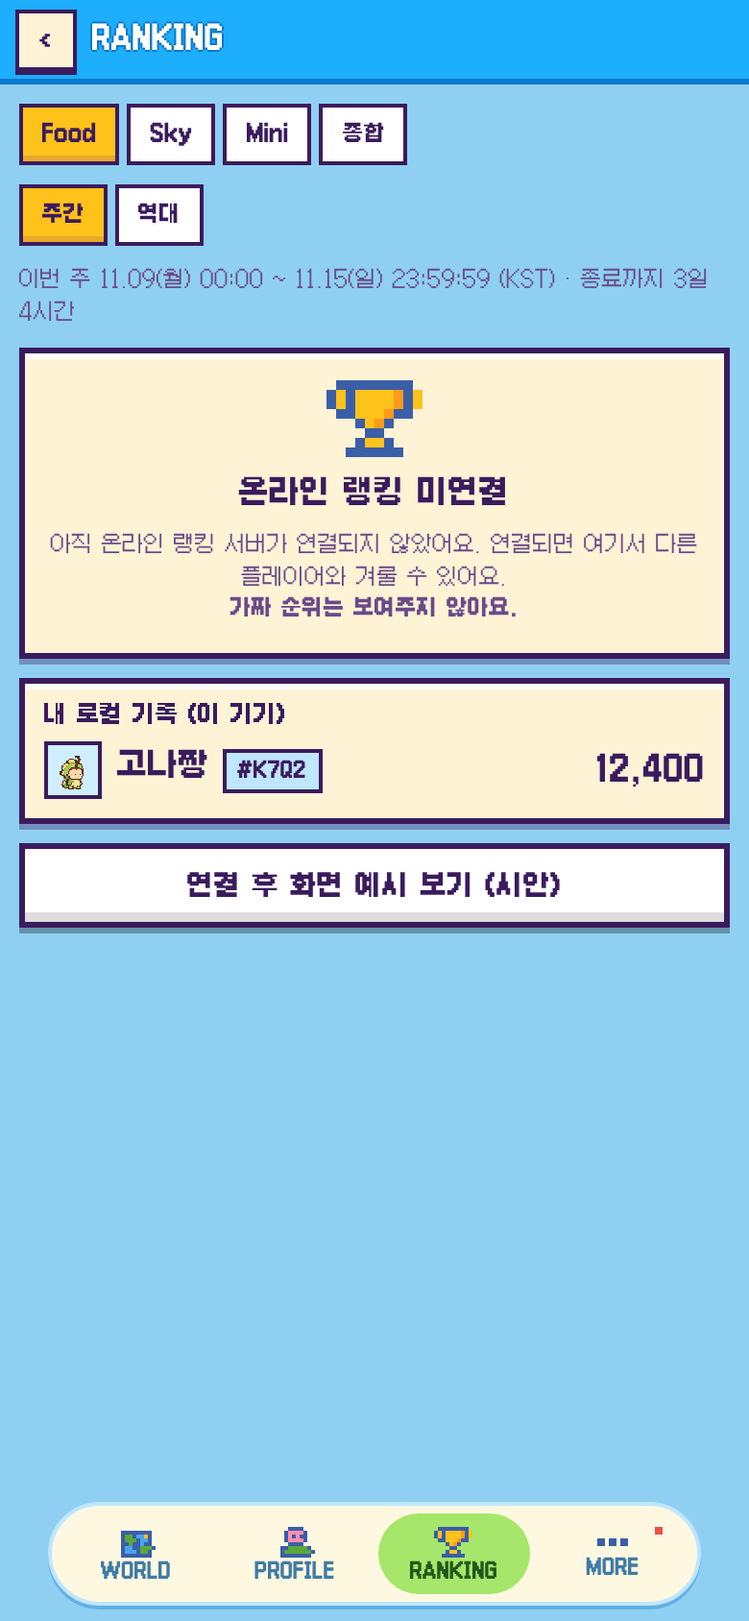
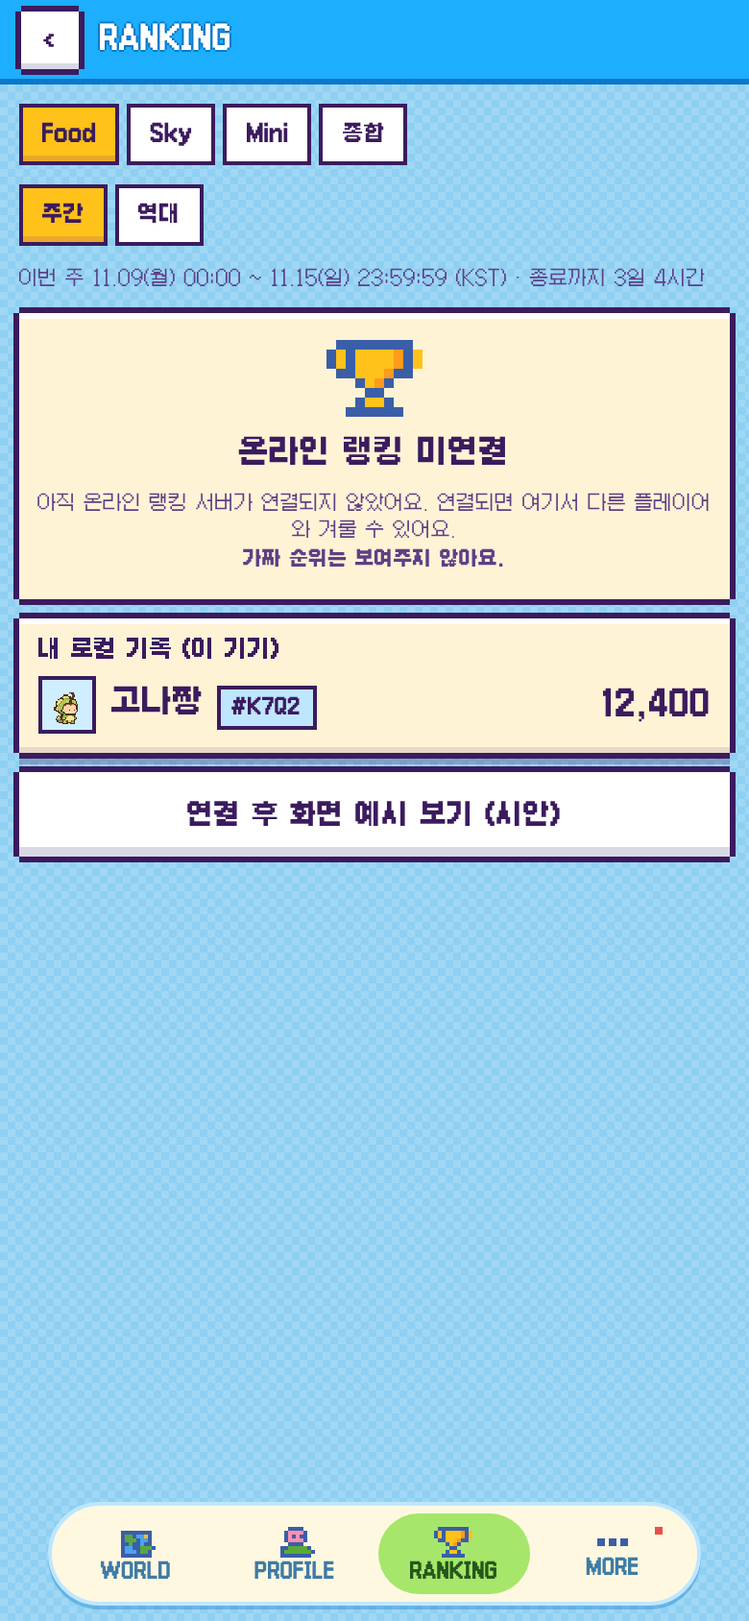
docs: HUD 배치안 비교, 에셋 구분표, Phase 1 명세, 시안 리파인(v1)
Claude-Session: https://claude.ai/code/session_011LWBdZ2XMame63jCRHDxCu

Changed region(s): [[0.0, 0.154, 0.9846, 0.5853], [0.0, 0.0, 0.3077, 0.0616]]

diff --git a/docs/platform/prototype/app.js b/docs/platform/prototype/app.js
@@ -37,7 +37,7 @@ const AV = {
 };
 const S = {
   p: { nick: '고나짱', code: 'K7Q2', av: 'gona', lv: 7, xp: 340, next: 500, coins: 1280, title: '고나의 첫걸음', joined: '2026.11.13', frame: 'basic' },
-  net: false, demo: false, toast: '', modal: null, rankGame: 'food', rankPeriod: 'weekly', achTab: 'common', cxTab: '캐릭터', cxSel: null, shopTab: '아바타',
+  hud: 'B', net: false, demo: false, toast: '', modal: null, rankGame: 'food', rankPeriod: 'weekly', achTab: 'common', cxTab: '캐릭터', cxSel: null, shopTab: '아바타',
   set: { bgm: true, sfx: true, vib: true, reduce: false, vol: 70 },
   reg: { step: 1, nick: '', av: 'gona' },
   owned: { cookie: true, f_basic: true, f_leaf: false },
@@ -58,9 +58,13 @@ function av(id, px = 32, extra = '') {
 const xpPct = () => Math.round((S.p.xp / S.p.next) * 100);
 const tab = (id, label, ic, on, pip) => `<button data-nav="${id}" class="${on ? 'on' : ''}">${icon(ic, 2)}<span>${label}</span>${pip ? '<i class="pip"></i>' : ''}</button>`;
 function nav(cur) {
-  return `<nav class="nav" aria-label="메뉴">${tab('world', 'WORLD', 'map', cur === 'world')}${tab('profile', 'PROFILE', 'user', cur === 'profile')}${tab('ranking', 'RANKING', 'trophy', cur === 'ranking')}${tab('more', 'MORE', 'more', ['achievements', 'codex', 'missions', 'shop', 'settings'].includes(cur), true)}</nav>`;
+  return `<nav class="nav" aria-label="메뉴">${tab('world', 'WORLD', 'map', cur === 'world')}${S.hud === 'C' ? `<button data-nav="profile" class="${cur === 'profile' ? 'on' : ''}"><span class="navav">${av(S.p.av, 22)}<b>${S.p.lv}</b></span><span>PROFILE</span></button>` : tab('profile', 'PROFILE', 'user', cur === 'profile')}${tab('ranking', 'RANKING', 'trophy', cur === 'ranking')}${tab('more', 'MORE', 'more', ['achievements', 'codex', 'missions', 'shop', 'settings'].includes(cur), true)}</nav>`;
 }
-const header = () => `<header class="top"><svg class="star" viewBox="0 0 7 7" shape-rendering="crispEdges"><g fill="#ffd84a"><rect x="3" y="0" width="1" height="3"/><rect x="0" y="3" width="7" height="1"/><rect x="2" y="2" width="3" height="3"/></g></svg><div class="logo"><h1>GONA GONE WILD!</h1><span class="ko">고나가 떴고나!</span></div><svg class="star" viewBox="0 0 7 7" shape-rendering="crispEdges"><g fill="#ffd84a"><rect x="3" y="0" width="1" height="3"/><rect x="0" y="3" width="7" height="1"/><rect x="2" y="2" width="3" height="3"/></g></svg></header>`;
+const STAR = `<svg class="star" viewBox="0 0 7 7" shape-rendering="crispEdges"><g fill="#ffd84a"><rect x="3" y="0" width="1" height="3"/><rect x="0" y="3" width="7" height="1"/><rect x="2" y="2" width="3" height="3"/></g></svg>`;
+const pbtn = (full) => `<button class="pbtn" data-nav="profile" aria-label="프로필 열기">${av(S.p.av, 28)}<span class="meta"><span class="nm">${S.p.nick}</span><span class="lv">LV${S.p.lv}<span class="bar"><i style="width:${xpPct()}%"></i></span></span></span></button>`;
+const pmini = () => `<button class="pbtn mini" data-nav="profile" aria-label="프로필 열기">${av(S.p.av, 28)}<span class="lvtag">LV${S.p.lv}</span></button>`;
+const coinchip = () => `<div class="coinchip"><i class="c"></i>${S.p.coins.toLocaleString()}</div>`;
+const header = () => S.hud === 'B' ? `<header class="top hudb">${pbtn()}<div class="logo"><h1>GONA GONE WILD!</h1><span class="ko">고나가 떴고나!</span></div>${coinchip()}</header>` : `<header class="top"><svg class="star" viewBox="0 0 7 7" shape-rendering="crispEdges"><g fill="#ffd84a"><rect x="3" y="0" width="1" height="3"/><rect x="0" y="3" width="7" height="1"/><rect x="2" y="2" width="3" height="3"/></g></svg><div class="logo"><h1>GONA GONE WILD!</h1><span class="ko">고나가 떴고나!</span></div><svg class="star" viewBox="0 0 7 7" shape-rendering="crispEdges"><g fill="#ffd84a"><rect x="3" y="0" width="1" height="3"/><rect x="0" y="3" width="7" height="1"/><rect x="2" y="2" width="3" height="3"/></g></svg></header>`;
 const titlebar = (t, back = 'world') => `<div class="bar-title"><button class="back" data-nav="${back}" aria-label="뒤로">‹</button><h2>${t}</h2></div>`;
 const wrapScreen = (cur, t, body, back) => `${titlebar(t, back)}<div class="screen"><div class="scroll">${body}</div></div>${nav(cur)}`;
 
@@ -74,21 +78,27 @@ function validNick(n) {
 }
 function screenRegister() {
   const r = S.reg; const v = validNick(r.nick);
+  const slots = (n) => { const ch = [...n]; return `<div class="slots" aria-hidden="true">${Array.from({ length: 10 }, (_, i) => `<i class="${i === ch.length ? 'cur' : ''}">${ch[i] || ''}</i>`).join('')}</div>`; };
+  const steps = (k) => `<div class="steps"><i class="${k >= 1 ? 'on' : ''}">1</i><i class="${k >= 2 ? 'on' : ''}">2</i><i class="${k >= 3 ? 'on' : ''}">3</i></div>`;
   if (r.step === 3) {
-    return `<div class="reg" style="justify-content:center;align-items:center;text-align:center;gap:14px"><div class="steps"><i></i><i></i><i class="on"></i></div>
-      <img src="assets/gona.png" style="width:135px;height:170px;animation:hop .7s steps(6) infinite alternate" alt=""><div class="bubble">어서 와, <b>${r.nick || '고나짱'}</b>!<br>고나 게임천국에 오신 걸 환영해요 🎉</div>
-      <div class="panel" style="width:100%"><div class="row" style="justify-content:center">${av(r.av, 40)}<div style="text-align:left"><b style="font-size:14px">${r.nick || '고나짱'}</b> <span class="chip blue">#K7Q2</span><div class="muted">LV 1 · 고나 코인 0</div></div></div></div>
-      <button class="btn block" data-nav="world">월드맵으로 출발!</button><p class="muted">이 기기에 저장돼요. 기기 변경·Safari 데이터 삭제 시 기록이 사라질 수 있어요 — 설정 &gt; 백업에서 보관하세요.</p></div><style>@keyframes hop{from{transform:translateY(0)}to{transform:translateY(-14px)}}</style>`;
+    return `<div class="reg center">${steps(3)}<div class="ribbon2">WELCOME!</div>
+      <div class="stagebox"><img class="hero-s hop" src="assets/gona.png" alt=""><i class="plat"></i></div>
+      <div class="bubble">어서 와, <b>${r.nick || '고나짱'}</b>!<br>고나 게임천국에 온 걸 환영해!</div>
+      <div class="idcard">${av(r.av, 44)}<div><b>${r.nick || '고나짱'}</b> <span class="chip blue">#K7Q2</span><div class="muted">LV 1 · 코인 0 · 기록 0</div></div></div>
+      <button class="btn block big" data-nav="world">▶ START!</button><p class="muted">이 기기에 저장돼요. 기기를 바꾸거나 Safari 데이터를 지우면 기록이 사라질 수 있어요. 설정 &gt; 백업에서 보관하세요.</p></div>`;
   }
   const body = r.step === 1
-    ? `<div class="field"><label class="muted" for="nick">닉네임 (한글·영문·숫자 2~10자)</label><input id="nick" value="${r.nick}" maxlength="12" autocomplete="off" placeholder="예: 고나짱"><div class="hint"><i class="${v.okLen ? 'ok' : r.nick ? 'bad' : ''}">${v.len}/10자 · 2자 이상</i><i class="${v.okChars ? 'ok' : 'bad'}">공백·특수문자 없음</i><i class="${v.okBad ? 'ok' : 'bad'}">부적절한 표현 없음</i></div></div>
-       <div class="panel"><div class="muted">닉네임은 같아도 괜찮아요. 내 기록은 <b>고유 ID</b>로 구분되고, 랭킹에는 <b>#식별코드</b>가 함께 표시돼요. 이메일·비밀번호는 필요 없어요.</div></div>
-       <button class="btn block ${v.ok ? '' : 'off'}" data-act="regnext" ${v.ok ? '' : 'disabled'}>다음 ›</button>`
-    : `<div class="avs">${Object.keys(AV).map((k) => `<button data-act="regav" data-id="${k}" class="${r.av === k ? 'on' : ''}">${av(k, 40)}<span>${AV[k].n}</span></button>`).join('')}</div>
-       <div class="panel row" style="justify-content:center">${av(r.av, 48)}<div><b style="font-size:14px">${r.nick}</b> <span class="chip blue">#K7Q2</span><div class="muted">선택한 아바타: ${AV[r.av].n}</div></div></div>
-       <p class="muted">알·별 아바타는 <b>임시 도트</b>(빨간 점선)입니다 — 신규 에셋 승인 후 제작합니다. 아바타·닉네임은 나중에 프로필에서 바꿀 수 있어요.</p>
-       <div class="row"><button class="btn sub" data-act="regback">‹ 이전</button><button class="btn" style="flex:1" data-act="regdone">시작하기!</button></div>`;
-  return `<div class="reg"><div class="steps"><i class="on"></i><i class="${r.step >= 2 ? 'on' : ''}"></i><i></i></div><div class="hero"><img src="assets/gona.png" alt=""><div class="bubble">${r.step === 1 ? '처음 왔구나! 이름을 알려줄래?' : '함께할 아바타를 골라줘!'}</div></div>${body}</div>`;
+    ? `<div class="ribbon2">NEW PLAYER</div><div class="hero2"><div class="stagebox sm"><img class="hero-s" src="assets/gona.png" alt=""><i class="plat"></i></div><div class="bubble">처음 왔구나!<br>이름을 알려줄래?</div></div>
+       <div class="field"><label class="muted" for="nick">닉네임 · 한글·영문·숫자 2~10자</label><input id="nick" class="plate" value="${r.nick}" maxlength="12" autocomplete="off" placeholder="이름 입력">${slots(r.nick)}
+       <div class="hint"><i class="${v.okLen ? 'ok' : r.nick ? 'bad' : ''}">${v.len}/10 · 2자 이상</i><i class="${v.okChars ? 'ok' : 'bad'}">공백·특수문자 없음</i><i class="${v.okBad ? 'ok' : 'bad'}">부적절한 표현 없음</i></div></div>
+       <div class="panel"><div class="muted">같은 닉네임도 괜찮아요. 내 기록은 <b>내부 ID</b>로 구분하고, 랭킹엔 <b>#식별코드</b>가 함께 보여요. 이메일·비밀번호는 필요 없어요.</div></div>
+       <button class="btn block big ${v.ok ? '' : 'off'}" data-act="regnext" ${v.ok ? '' : 'disabled'}>다음 ▶</button>`
+    : `<div class="ribbon2">CHARACTER SELECT</div>
+       <div class="pick"><div class="big-av">${av(r.av, 84)}<b>${r.nick}</b><span class="chip blue">#K7Q2</span></div>
+       <div class="avs">${Object.keys(AV).map((k) => `<button data-act="regav" data-id="${k}" class="${r.av === k ? 'on' : ''}">${r.av === k ? '<em>▶</em>' : ''}${av(k, 40)}<span>${AV[k].n}</span>${AV[k].ph ? '<u>임시</u>' : ''}</button>`).join('')}</div></div>
+       <p class="muted">알·별은 <b>임시 도트</b>(점선 표시)이며 정식 픽셀 에셋으로 교체 예정이에요. 아바타·닉네임은 나중에 바꿀 수 있어요.</p>
+       <div class="row"><button class="btn sub" data-act="regback">◀ 이전</button><button class="btn big" style="flex:1" data-act="regdone">이걸로 결정!</button></div>`;
+  return `<div class="reg">${steps(r.step)}${body}</div>`;
 }
 
 const hudHtml = () => `<div class="hud"><button class="badge" data-nav="profile" aria-label="프로필 열기">${av(S.p.av, 30)}<span class="meta"><span class="nm">${S.p.nick}</span><span class="lv">LV ${S.p.lv}<span class="bar"><i style="width:${xpPct()}%"></i></span></span></span></button>
@@ -110,7 +120,9 @@ function moreHtml() {
 }
 function screenWorld(q) {
   const isl = q.get('island');
-  return `${header()}${hudHtml()}<div class="stage"><div class="mapbox" id="mapbox"><div class="fit" id="fit"><div class="world" id="world"><img class="bg" src="assets/gona-world-map.png" alt="월드맵"><img class="gona" id="gona" src="assets/gona.png" alt="고나">
+  if (q.get('hud')) S.hud = q.get('hud');
+  const ov = S.hud === 'A' ? `<div class="ovl l">${pmini()}</div><div class="ovl r">${coinchip()}</div>` : S.hud === 'C' ? `<div class="ovl r">${coinchip()}</div>` : '';
+  return `${header()}<div class="stage">${ov}<div class="mapbox" id="mapbox"><div class="fit" id="fit"><div class="world" id="world"><img class="bg" src="assets/gona-world-map.png" alt="월드맵"><img class="gona" id="gona" src="assets/gona.png" alt="고나">
     ${Object.values(GAMES).map((g) => `<button class="hit ${isl === g.id ? 'sel' : ''}" data-act="island" data-id="${g.id}" aria-label="${g.island}" style="left:${g.hit.x}px;top:${g.hit.y}px;width:${g.hit.w}px;height:${g.hit.h}px;${g.hit.clip ? 'clip-path:' + g.hit.clip : ''}"></button>`).join('')}</div></div></div>
     ${isl ? popupHtml(GAMES[isl]) : ''}${q.get('more') ? moreHtml() : ''}</div>${nav(q.get('more') ? 'more' : 'world')}`;
 }
@@ -132,12 +144,14 @@ function layoutWorld(q) {
 
 function screenProfile() {
   const p = S.p;
-  return wrapScreen('profile', 'PROFILE', `<div class="panel"><div class="row" style="gap:10px">${av(p.av, 64)}<div style="flex:1;min-width:0"><div class="row"><b style="font-size:16px">${p.nick}</b><span class="chip blue">#${p.code}</span></div>
-    <div class="row" style="margin:5px 0 3px"><span class="chip gold">LV ${p.lv}</span><span class="chip ok">${p.title}</span></div><div class="row"><span class="bar"><i style="width:${xpPct()}%"></i></span><span style="font-size:9px;white-space:nowrap">${p.xp}/${p.next} XP</span></div></div></div>
-    <div class="muted" style="margin-top:6px">가입일 ${p.joined} · 이 기기에 저장됨(온라인 미연결)</div><div class="row" style="margin-top:8px"><button class="btn sm sub" data-act="edit" data-what="avatar">아바타</button><button class="btn sm sub" data-act="edit" data-what="nick">닉네임</button><button class="btn sm sub" data-act="edit" data-what="title">칭호</button><button class="btn sm sub" data-act="edit" data-what="frame">테두리</button></div></div>
-    <div class="panel"><h3>플레이 통계 <span class="sp"></span><span class="chip">샘플</span></h3><div class="grid" style="grid-template-columns:repeat(3,1fr)"><div class="stat"><b>12</b><span>총 플레이</span></div><div class="stat"><b>1시간 8분</b><span>총 플레이 시간</span></div><div class="stat"><b>1 / 3</b><span>플레이한 게임</span></div><div class="stat"><b>4 / 30</b><span>업적</span></div><div class="stat"><b>2,150</b><span>누적 코인</span></div><div class="stat"><b>3 / 4</b><span>최고 단계</span></div></div></div>
-    <div class="panel"><h3>게임별 기록</h3><div class="grid">${Object.values(GAMES).map((g) => `<div class="row" style="background:#fff;border:2px solid var(--ink);padding:6px 8px"><b style="font-size:11px;flex:1">${g.island}</b>${g.open ? `<span class="chip gold">최고 ${g.best}</span><span class="chip">${g.stage}</span>` : '<span class="chip soon">COMING SOON</span>'}</div>`).join('')}</div></div>
-    <div class="panel"><h3>기록 공유 · 백업</h3><div class="row"><button class="btn sm off" disabled>이미지로 공유 (예정)</button><button class="btn sm sub" data-nav="settings">백업·복구</button></div></div>`);
+  return wrapScreen('profile', 'PROFILE', `<div class="pcard"><div class="portrait">${av(p.av, 76)}<span class="lvbadge">LV<b>${p.lv}</b></span></div>
+    <div class="info"><div class="nameplate"><b>${p.nick}</b><span class="chip blue">#${p.code}</span></div><div class="titleplate">${p.title}</div>
+    <div class="xp"><span class="bar"><i style="width:${xpPct()}%"></i></span><small>${p.xp} / ${p.next} XP</small></div><div class="coinline"><i class="c"></i>${p.coins.toLocaleString()} <small>· ${p.joined} 시작</small></div></div></div>
+    <div class="row cust"><button class="btn sm sub" data-act="edit" data-what="avatar">아바타</button><button class="btn sm sub" data-act="edit" data-what="nick">닉네임</button><button class="btn sm sub" data-act="edit" data-what="title">칭호</button><button class="btn sm sub" data-act="edit" data-what="frame">테두리</button></div>
+    <div class="panel"><h3>플레이 통계 <span class="sp"></span><span class="chip">샘플</span></h3><div class="grid" style="grid-template-columns:repeat(3,1fr)"><div class="stat"><b>12</b><span>총 플레이</span></div><div class="stat"><b>1시간 8분</b><span>플레이 시간</span></div><div class="stat"><b>1 / 3</b><span>플레이한 게임</span></div></div></div>
+    <div class="panel"><h3>게임별 기록</h3><div class="grid">${Object.values(GAMES).map((g) => `<div class="grow"><b>${g.island}</b>${g.open ? `<span class="chip gold">최고 ${g.best}</span><span class="chip">${g.stage}</span>` : '<span class="chip soon">COMING SOON</span>'}</div>`).join('')}</div></div>
+    <div class="panel"><h3>업적 4 / 30 <span class="sp"></span><button class="btn sm sub" data-nav="achievements">보기</button></h3><div class="row">${icon('star', 3)}${icon('star', 3)}${icon('star', 3)}${icon('star', 3)}<span class="muted">· 이 기기에 저장됨 (온라인 미연결)</span></div></div>
+    <div class="panel"><div class="row"><button class="btn sm off" disabled>이미지로 공유 (예정)</button><button class="btn sm sub" data-nav="settings">백업·복구</button></div></div>`);
 }
 
 const SAMPLE = [['예시닉 A', 'A1B2', 12400], ['예시닉 B', 'C3D4', 11800], ['예시닉 C', 'E5F6', 10950], ['예시닉 D', 'G7H8', 9300], ['예시닉 E', 'J9K1', 8800], ['예시닉 F', 'L2M3', 7100], ['예시닉 G', 'N4P5', 6600]];
@@ -212,7 +226,7 @@ function modalHtml() {
   return `<div class="scrim" data-act="mclose"><div class="panel modal" onclick="event.stopPropagation()">${body}</div></div>`;
 }
 function render() {
-  const { name, q } = parse(); const fn = SCREENS[name] || screenWorld;
+  const { name, q } = parse(); if (q.get('hud')) S.hud = q.get('hud'); const fn = SCREENS[name] || screenWorld;
   $('#app').innerHTML = `${CLEAN ? '' : '<span class="sample">시안 · 샘플 데이터</span>'}${fn(q)}${S.toast ? `<div class="toast">${S.toast}</div>` : ''}${modalHtml()}`;
   if (name === 'world') requestAnimationFrame(() => layoutWorld(q));
   const ni = $('#nick'); if (ni) ni.addEventListener('input', () => { S.reg.nick = ni.value; const pos = ni.selectionStart; render(); const n2 = $('#nick'); n2.focus(); n2.setSelectionRange(pos, pos); });

diff --git a/docs/platform/prototype/style.css b/docs/platform/prototype/style.css
@@ -173,3 +173,85 @@ input[type=range] { width: 110px; accent-color: var(--orange); }
 .proto.open nav { display: grid; gap: 4px; }
 .proto nav a { color: var(--ink); text-decoration: none; font-size: 12px; padding: 7px 6px; background: #fff; border: 2px solid var(--ink); }
 @media (prefers-reduced-motion: reduce) { .popup, .more, .toast, .fit { animation: none; transition: none; } }
+
+/* ══ v1 리파인: 노치(계단) 모서리 · 도트 배경 · 플레이어 버튼 HUD ══ */
+:root { --notch: 0 -3px 0 0 var(--ink), 0 3px 0 0 var(--ink), -3px 0 0 0 var(--ink), 3px 0 0 0 var(--ink); }
+.screen { background: #8fd0f2 conic-gradient(rgba(255,255,255,.14) 25%, transparent 0 50%, rgba(255,255,255,.14) 0 75%, transparent 0) 0 0 / 8px 8px; }
+.panel, .popup, .modal, .bubble, .btn, .pbtn, .coinchip, .back { border: 0; }
+.panel, .popup { box-shadow: var(--notch), inset 0 3px 0 #fff, inset 0 -3px 0 rgba(59,27,94,.12), 0 6px 0 0 rgba(59,27,94,.28); }
+.bubble { box-shadow: var(--notch); background: #fff; }
+.btn { box-shadow: var(--notch), inset 0 -5px 0 #e8a92c, inset 0 3px 0 rgba(255,255,255,.55); }
+.btn:active { transform: translateY(2px); box-shadow: var(--notch), inset 0 3px 0 #e8a92c; }
+.btn.sub { box-shadow: var(--notch), inset 0 -5px 0 #d9d9e6, inset 0 3px 0 #fff; }
+.btn.off { box-shadow: var(--notch), inset 0 -5px 0 #b9b2a2; }
+.btn.danger { box-shadow: var(--notch), inset 0 -5px 0 #d85c58, inset 0 3px 0 rgba(255,255,255,.5); }
+.btn.big { min-height: 52px; font-size: 16px; letter-spacing: 1px; }
+.btn.block { width: 100%; }
+.back { box-shadow: var(--notch), inset 0 -3px 0 #d9d9e6; background: #fff; width: 30px; height: 30px; margin: 3px; }
+.tabs button, .stat, .lbrow, .chip { border-width: 2px; }
+.muted { font-size: 10px; line-height: 1.45; color: #5d3f86; }
+
+/* HUD 옵션 B: 로고 헤더 안에 작은 플레이어 버튼 + 코인 (지도 크기 손실 0) */
+.top.hudb { display: grid; grid-template-columns: 1fr auto 1fr; gap: 6px; padding: 0 8px; align-items: center; }
+.top.hudb .logo { justify-self: center; }
+.pbtn { display: inline-flex; align-items: center; gap: 5px; padding: 3px 7px 3px 3px; background: var(--cream); box-shadow: var(--notch), inset 0 -3px 0 #e8d5a0; text-align: left; justify-self: start; min-width: 0; margin: 3px; }
+.pbtn:active { transform: translateY(2px); }
+.pbtn .meta { display: flex; flex-direction: column; gap: 3px; min-width: 0; }
+.pbtn .nm { font-size: 10px; line-height: 1; font-weight: 700; max-width: 54px; overflow: hidden; text-overflow: ellipsis; white-space: nowrap; }
+.pbtn .lv { display: flex; align-items: center; gap: 3px; font-size: 8px; line-height: 1; font-weight: 700; }
+.pbtn .lv .bar { width: 26px; min-width: 26px; flex: none; height: 5px; }
+.pbtn.mini { padding: 3px; flex-direction: column; gap: 1px; }
+.lvtag { font-size: 8px; font-weight: 700; line-height: 1; padding: 1px 0 0; }
+.coinchip { display: inline-flex; align-items: center; gap: 4px; padding: 6px 7px 6px 6px; background: var(--cream); box-shadow: var(--notch), inset 0 -3px 0 #e8d5a0; font-size: 11px; font-weight: 700; line-height: 1; justify-self: end; margin: 3px; }
+.coinchip .c { width: 11px; height: 11px; background: var(--gold); border: 2px solid var(--ink); box-shadow: inset -2px -2px 0 var(--orange); }
+/* 옵션 A/C: 지도 위 오버레이 */
+.ovl { position: absolute; top: 4px; z-index: 6; } .ovl.l { left: 6px; } .ovl.r { right: 6px; }
+.navav { position: relative; display: inline-grid; } .navav b { position: absolute; right: -7px; bottom: -5px; font-size: 8px; background: var(--ink); color: #fff; padding: 1px 2px; line-height: 1; }
+
+/* 등록 */
+.reg { gap: 8px; padding: 8px 10px 10px; }
+.reg.center { align-items: center; text-align: center; justify-content: center; }
+.steps i { display: grid; place-items: center; width: 22px; height: 18px; font-style: normal; font-size: 10px; font-weight: 700; background: #fff; border: 2px solid var(--ink); }
+.steps i.on { background: var(--gold); }
+.ribbon2 { align-self: center; background: var(--ink); color: var(--cream); font-size: 12px; font-weight: 700; padding: 5px 12px 6px; letter-spacing: 2px; box-shadow: 0 0 0 2px var(--cream), 0 0 0 4px var(--ink); margin: 4px 0; }
+.hero2 { display: flex; align-items: flex-end; gap: 8px; justify-content: center; }
+.stagebox { position: relative; display: grid; place-items: end center; width: 120px; height: 140px; }
+.stagebox.sm { width: 84px; height: 104px; }
+.hero-s { width: 100px; height: 126px; position: relative; z-index: 1; } .stagebox.sm .hero-s { width: 76px; height: 96px; }
+.plat { position: absolute; bottom: 0; left: 8%; right: 8%; height: 10px; background: var(--grass); box-shadow: 0 -3px 0 #a6e66a inset, var(--notch); }
+.hop { animation: hop2 .8s steps(4) infinite alternate; } @keyframes hop2 { to { transform: translateY(-10px); } }
+.field input.plate { text-align: center; font-size: 20px; letter-spacing: 2px; background: var(--cream); border: 0; box-shadow: var(--notch), inset 0 3px 0 rgba(0,0,0,.12); }
+.slots { display: grid; grid-template-columns: repeat(10, 1fr); gap: 3px; }
+.slots i { height: 26px; display: grid; place-items: center; font-style: normal; font-size: 13px; font-weight: 700; background: #fff; border: 2px solid var(--ink); }
+.slots i.cur { background: var(--gold); animation: blink .8s steps(2) infinite; } @keyframes blink { 50% { background: #fff; } }
+.pick { display: grid; grid-template-columns: 92px 1fr; gap: 10px; align-items: center; }
+.big-av { display: flex; flex-direction: column; align-items: center; gap: 4px; font-size: 12px; background: var(--cream); padding: 8px 4px; box-shadow: var(--notch), inset 0 3px 0 #fff; }
+.pick .avs { grid-template-columns: repeat(2, 1fr); }
+.avs button { position: relative; border: 0; box-shadow: var(--notch); }
+.avs button.on { box-shadow: var(--notch), inset 0 -4px 0 #e8a92c; }
+.avs button em { position: absolute; left: 1px; top: 2px; font-style: normal; font-size: 10px; color: var(--red); }
+.avs button u { position: absolute; right: 1px; top: 1px; font-size: 7px; text-decoration: none; background: var(--red); color: #fff; padding: 1px 2px; }
+.idcard { display: flex; gap: 8px; align-items: center; background: var(--cream); padding: 8px 12px; box-shadow: var(--notch), inset 0 3px 0 #fff; text-align: left; }
+
+/* 프로필 카드 */
+.pcard { display: grid; grid-template-columns: 96px 1fr; gap: 10px; background: linear-gradient(180deg, #fff3d6 0 62%, #ffe9b0 62%); padding: 10px; box-shadow: var(--notch), inset 0 3px 0 #fff, 0 6px 0 0 rgba(59,27,94,.28); }
+.portrait { position: relative; display: grid; place-items: center; background: repeating-conic-gradient(#cfeeff 0 25%, #b7e3fb 0 50%) 0 0/8px 8px; box-shadow: 0 0 0 3px var(--gold), 0 0 0 6px var(--ink); margin: 6px; height: 84px; }
+.lvbadge { position: absolute; left: -10px; bottom: -10px; background: var(--ink); color: var(--cream); font-size: 9px; padding: 3px 4px 3px; display: flex; gap: 2px; align-items: baseline; box-shadow: 0 0 0 2px var(--cream); } .lvbadge b { font-size: 14px; color: var(--gold); }
+.info { display: flex; flex-direction: column; gap: 5px; min-width: 0; justify-content: center; }
+.nameplate { display: flex; align-items: center; gap: 5px; flex-wrap: wrap; } .nameplate b { font-size: 17px; line-height: 1.1; }
+.titleplate { align-self: flex-start; background: #8fe06a; border: 2px solid var(--ink); font-size: 10px; font-weight: 700; padding: 3px 6px; }
+.xp { display: flex; flex-direction: column; gap: 3px; } .xp .bar { height: 9px; } .xp small, .coinline small { font-size: 9px; color: #5d3f86; }
+.coinline { display: flex; align-items: center; gap: 5px; font-size: 13px; font-weight: 700; } .coinline .c { width: 12px; height: 12px; background: var(--gold); border: 2px solid var(--ink); box-shadow: inset -2px -2px 0 var(--orange); }
+.cust .btn { flex: 1; }
+.grow { display: flex; align-items: center; gap: 5px; background: #fff; border: 2px solid var(--ink); padding: 6px 8px; } .grow b { flex: 1; font-size: 11px; }
+
+/* 랭킹 */
+.lb-top3 .p { border: 0; box-shadow: var(--notch); justify-content: flex-start; }
+.lb-top3 .p.r1 { min-height: 126px; } .lb-top3 .p.r2 { min-height: 108px; } .lb-top3 .p.r3 { min-height: 98px; }
+.lb-top3 .medal { font-size: 13px; background: var(--ink); color: var(--cream); padding: 2px 5px; }
+.empty { box-shadow: var(--notch), inset 0 3px 0 #fff; }
+.lbrow { border: 0; box-shadow: var(--notch); margin: 3px 0; }
+.lbrow.me { box-shadow: 0 -3px 0 0 var(--ink), 0 3px 0 0 var(--ink), -3px 0 0 0 var(--ink), 3px 0 0 0 var(--ink), inset 0 0 0 2px var(--gold); }
+
+/* 시안 전용 HUD 비교 라벨 */
+.hudlabel { position: absolute; z-index: 45; left: 6px; bottom: 4px; font-size: 9px; background: var(--ink); color: #fff; padding: 2px 4px; }

diff --git a/docs/platform/prototype/index.html b/docs/platform/prototype/index.html
@@ -13,7 +13,9 @@
       <button id="protoBtn">☰ 시안 목록</button>
       <nav>
         <a href="#register">1 닉네임 등록</a>
-        <a href="#world">2 월드맵 + 플레이어 정보</a>
+        <a href="#world?hud=A">2-A HUD 안 A (지도 위 오버레이)</a>
+        <a href="#world?hud=B">2-B HUD 안 B (헤더 내장, 추천)</a>
+        <a href="#world?hud=C">2-C HUD 안 C (하단탭 아바타)</a>
         <a href="#world?island=food">3 섬 선택 팝업 (Food)</a>
         <a href="#world?island=sky">3b 섬 팝업 (COMING SOON)</a>
         <a href="#world?more=1">3c 더보기 메뉴</a>

diff --git a/docs/platform/PHASE1_SPEC.md b/docs/platform/PHASE1_SPEC.md
@@ -1,0 +1,36 @@
+# Phase 1 확정 명세 — 플레이어 기반 (구현 전 최종 확인용)
+
+> 상태: **명세만 확정, 구현 시작 전.** 승인 후 새 브랜치에서 개발. 이번 단계는 디자인 시안까지.
+
+## 목표
+닉네임으로 시작하는 로컬 플레이어를 만들고, 월드맵 HUD(안 B)와 프로필·설정(로컬 백업/복원)까지 연결한다. 서버·점수·XP·Food 연동은 **포함하지 않는다.**
+
+## 구현할 기능 (정확한 범위)
+1. **플레이어 생성**: 타이틀의 기존 "탭해서 시작" 이후, 저장된 플레이어가 없으면 등록 화면(3단계: 닉네임 → 아바타 → 환영)으로. 있으면 바로 월드맵. 타이틀 화면의 디자인·연출 변경 없음.
+2. **닉네임 규칙(D3)**: 한글·영문·숫자 2~10자, 공백·특수문자 불가, 부적절 표현 사전 검사(초기 목록은 설정 파일로 분리), **중복 허용**. 내부 `playerId`(UUID v4, `crypto.randomUUID` + 폴백)로 식별, 표시용 `shortCode` 4자(혼동 문자 0·O·1·I·L 제외) 로컬 생성. 닉네임 변경 시 playerId·기록 유지.
+3. **아바타**: 고나·딸기·쿠키 선택 가능, 알·별은 "준비 중" 잠금 슬롯(ASSETS.md). 나중에 프로필에서 변경.
+4. **로컬 저장**: 키 `gp.v1.player`(+ 직전 정상본 `gp.v1.player.bak`), `gp.v1.meta`(schemaVersion). 마이그레이션 함수 체인 틀. 파싱/검증 실패 시 `.bak` 복구 시도 → 실패하면 타이틀 이후 "저장 기록을 읽을 수 없어요" 안내(백업 복원 / 새로 시작). 기존 `gona.openingSeen`·`gona.mute` 키는 그대로.
+5. **월드맵 HUD(안 B)**: 로고 헤더 좌측 플레이어 버튼(아바타·닉·LV·XP), 우측 코인칩(Phase 1은 0 표시). 지도·고나·터치 좌표·이동 로직 변경 없음. 버튼 탭 → 프로필.
+6. **프로필(최소)**: 아바타·닉네임·#코드·가입일·LV1·칭호 없음 표시, 아바타/닉네임 변경. 통계·업적 영역은 "준비 중".
+7. **설정(최소)**: 닉네임·아바타 변경, **로컬 백업(JSON 파일 내보내기)/복원(가져오기, 형식·버전 검증)**, 저장 데이터 초기화(확인창), 저장 한계 안내. BGM/효과음은 기존 `gona.mute` 연동 토글.
+8. **하단 메뉴**: WORLD / PROFILE / RANKING / MORE. RANKING은 "온라인 랭킹 준비 중" 화면(가짜 순위 없음), MORE는 설정 + 나머지 항목 "준비 중".
+9. **UI 부품(최소)**: PixelButton, PixelPanel, PixelModal, ConfirmDialog, PlayerButton, CoinChip, AvatarSelector, Toast.
+
+## 포함하지 않음
+서버/Cloudflare 연결, 세션·점수 기록, XP/코인 획득, 업적·미션·도감·상점, 랭킹 데이터, Food Adventure 수정/연동, 신규 이미지 생성, 새 외부 서비스·키.
+
+## 파일 변경 범위
+- **수정**: `src/App.tsx`(화면 상태 title/register/map/profile/…, 등록 분기), `src/components/WorldMap.tsx`(헤더 HUD 슬롯), `src/components/BottomNav.tsx`(탭 연결), `src/components/InfoViews.tsx`(준비 중 화면 정리), `src/services/player.ts`(자리표시 타입 → 실제 타입), `src/types.ts`, 전역 CSS 일부(HUD·공통 UI), `package.json`(Vitest devDependency 추가 시 — **승인 필요**).
+- **신규**: `src/platform/{storage,player,nickname,migrate,backup,ids}.ts`, `src/screens/{Register,Profile,Settings,RankingPlaceholder}.tsx`, `src/ui/{PixelButton,PixelPanel,PixelModal,ConfirmDialog,PlayerButton,CoinChip,AvatarSelector,Toast}.tsx`, `src/ui/pixel.css`, `public/assets/avatars/{strawberry,cookie}.png`(복사), `src/platform/*.test.ts`, `tools/platform-shots.cjs`.
+- **수정 금지**: `public/assets/gona-world-map.png`, 타이틀/로고 에셋, `src/data/world.ts` 좌표, Food 저장소 전체.
+
+## 테스트 항목
+- 단위: 닉네임 검증(길이·문자·금지어·공백), shortCode 생성, 마이그레이션 체인, 손상 JSON 복구, 백업 가져오기 검증.
+- E2E(393×636, 390×844): 첫 실행 → 등록 → 월드맵 HUD, 재방문 자동 인식, 저장 삭제 후 재등록, 손상 안내, 섬 선택·고나 이동·터치 좌표·팝업 회귀, 프로필 변경, 백업/복원 왕복, 콘솔 오류 없음.
+- `npm run typecheck` / `npm run build` 통과, 타이틀·월드맵 전후 스크린샷 비교(디자인 변경 없음 확인).
+
+## 위험
+iOS Safari 저장 삭제(안내·백업으로 완화), 헤더 별 장식 대체(안 B 승인 필요, 후퇴안 C), localStorage 동일 출처 공유(접두사 `gp.v1.`로 분리), 금지어 목록 오탐, 모바일 키보드가 등록 화면을 가림(스크롤·viewport 처리 테스트).
+
+## 완료 기준
+재방문 시 닉네임 자동 인식 · 저장 손상 시 앱이 죽지 않고 복구 안내 · 백업→초기화→복원으로 동일 상태 · 월드맵 기존 동작/좌표 불변 · 타이틀 시각 변화 0 · 모바일 스크린샷 승인 후에만 main.

diff --git a/docs/platform/ASSETS.md b/docs/platform/ASSETS.md
@@ -1,0 +1,17 @@
+# 에셋 구분표 (임시 vs 정식) — 이번 단계 신규 이미지 생성 없음
+
+| 구분 | 위치 | 현재 시안 | 정식 계획 | 필요 시점 |
+|---|---|---|---|---|
+| **승인된 기존 에셋 (그대로 사용)** | 월드맵 배경, 고나 스프라이트, 타이틀/로고, 갤러리 폰트 Galmuri11, 기존 `PixelIcon`/`PixelLeaf` | 사용 | 변경 없음 | — |
+| **기존 에셋 재사용** | 아바타 고나(`gona.png`)·딸기·쿠키(Food 저장소 `public/assets/snacks/*.png`의 **복사본**), 섬 팝업 썸네일(승인된 월드맵 크롭) | 사용 | 딸기·쿠키 PNG를 Paradise `public/assets/avatars/`로 복사(Food 저장소는 수정하지 않음) | Phase 1 |
+| **임시(시안 전용, 운영 코드 금지)** | 아바타 알·별 → 코드 도트 + 빨간 점선 / 하단탭·MORE 아이콘 / 코인·XP 막대 / 업적 별·잠금 아이콘 / 도감 별 | 코드로 그린 임시 도트 | 정식 PNG로 교체 | — |
+| **정식 에셋 필요 (신규 제작, 승인 후)** | ① 아바타 알·별 (각 32×32 PNG) | 임시 | 정식 픽셀 PNG 2종 | Phase 1 후반 or 6 |
+| | ② 코인 아이콘, 레벨 배지 프레임, XP 막대 타일 | 임시 | PNG/9-slice | Phase 3 |
+| | ③ 랭킹 메달(1/2/3위), 트로피 아이콘 | 임시 | PNG | Phase 4 |
+| | ④ 업적 배지 아이콘 세트(공통+게임별), 잠금 아이콘 | 임시 | PNG | Phase 5 |
+| | ⑤ 도감 카드 이미지(캐릭터·보스·몬스터·간식 등) | 일부 기존(고나/간식), 나머지 `?` | Food 에셋 재사용 + 부족분 제작 | Phase 6 |
+| | ⑥ 상점 꾸미기(테두리·배경·칭호 장식) | 임시 | PNG | Phase 6 |
+| | ⑦ 섬 팝업 전용 대표 이미지 | 월드맵 크롭(승인 에셋) | 필요 시 별도 제작 | 선택 |
+
+**Phase 1 운영 반영 원칙**: 신규 이미지 없이 진행. 알·별은 운영 화면에서 **잠금 슬롯("준비 중")** 으로 표시(임시 CSS 그림 노출 금지), 정식 에셋 승인·제작 후 열기. 선택 가능한 아바타는 고나·딸기·쿠키 3종.
+이미지 제작이 필요해지면 목록·해상도·크레딧 비용을 먼저 제안하고 승인 후 진행한다.

diff --git a/docs/platform/README.md b/docs/platform/README.md
@@ -2,12 +2,15 @@
 - [MASTER_PLAN](MASTER_PLAN.md) · [ARCHITECTURE](ARCHITECTURE.md) · [DATA_MODEL](DATA_MODEL.md) · [GAME_SDK_CONTRACT](GAME_SDK_CONTRACT.md) · [ROADMAP](ROADMAP.md)
 - 시안: `prototype/index.html` (브라우저에서 열기, 우상단 ☰ 로 화면 이동, `?clean` 은 시안 메뉴 숨김) · 캡처: `screens/`
 
-## 승인이 필요한 결정
-- D1 HUD 배치: A) 기존 로고 헤더 아래 한 줄(시안, 393×636에서 지도 약간 축소) / B) 헤더를 HUD로 대체
-- D2 아바타 알·별 신규 도트 에셋 제작 승인 여부(현재 임시 도트)
-- D3 닉네임 규칙(2~10자, 중복 허용, #식별코드 4자)
-- D4 백엔드 선택(추천 Cloudflare Workers+D1) 및 계정 생성 승인
-- D5 출처/도메인 전략(현 동일 출처 접두사 분리 vs 커스텀 도메인)
-- D6 Food 저장소 최소 패치(~80줄) 허용 여부
-- D7 XP·코인 수치, 일일 상한, 종합 랭킹 가중치
-- D8 비밀 복구 코드 형식, 개인정보 고지 문구
+## 결정 현황
+- D1 확정: 월드맵·로고 헤더 유지, 작은 플레이어 버튼 중심 → [HUD_OPTIONS](HUD_OPTIONS.md) (A/B/C 비교, **B 추천**, 최종 선택 대기)
+- D2 확정: 알·별은 정식 픽셀 에셋으로 교체 예정, 지금 이미지 생성 금지 → [ASSETS](ASSETS.md)
+- D3 확정: 한글·영문·숫자 2~10자, 중복 허용, playerId 식별
+- D4: Cloudflare Workers + D1 우선 후보. 무료 한도·보안 확인 전 연결 금지
+- D5 확정: 현재 GitHub Pages 도메인·기존 게임 주소 유지
+- D6: Food 최소 연동 패치는 추후 허용, 이번 단계 수정 금지
+- D7: XP·코인·종합 랭킹 수치는 임시 설계값, 운영 전 별도 승인
+- D8: 초기 로컬 백업·복원, 온라인 복구 코드는 백엔드 단계에서 결정
+- UI 디자인은 **최종 승인 전**(시안 수정 중)
+
+추가 문서: [PHASE1_SPEC](PHASE1_SPEC.md) (Phase 1 확정 명세) · [HUD_OPTIONS](HUD_OPTIONS.md) · [ASSETS](ASSETS.md)

diff --git a/docs/platform/HUD_OPTIONS.md b/docs/platform/HUD_OPTIONS.md
@@ -1,0 +1,17 @@
+# HUD 배치안 비교 (D1: 월드맵·로고 헤더 유지, 지도 축소 최소화)
+
+기준: 운영 월드맵 레이아웃(헤더 48px + 하단 메뉴 66px 사이에 지도)을 그대로 두고, **플레이어 정보는 작은 버튼 중심**으로 재설계. 이전 시안(v0)은 헤더 아래 44px HUD 줄을 추가해 지도가 줄었다 → 폐기.
+
+| | 안 A 지도 위 오버레이 | **안 B 헤더 내장 (추천)** | 안 C 하단탭 아바타 |
+|---|---|---|---|
+| 구성 | 좌상단 작은 아바타+LV 버튼, 우상단 코인칩을 지도 위에 띄움 | 로고 헤더 좌측 플레이어 버튼(아바타·닉·LV·XP), 우측 코인칩. 양옆의 장식 별 2개 자리 사용 | 헤더 그대로, PROFILE 탭이 아바타+LV 배지, 코인칩만 지도 우상단 |
+| 지도 크기 손실 (393×636) | 0px (지도 482px 높이 그대로) | **0px** | 0px |
+| 지도 가림 | 지도 상단 모서리 일부(바다/구름 영역 ~40×50px) | **없음** | 우상단 코인칩 ~60×22px |
+| 닉네임·XP 노출 | 아바타+LV만 | **닉네임·LV·XP 바 모두** | 아바타+LV 배지만 |
+| 터치 타겟 | 40×50 | 34 높이(헤더 48px 안) | 탭 영역 그대로 |
+| 승인된 로고 헤더 변경 | 없음 | 장식 별 2개를 버튼으로 대체(로고·문구·색은 그대로) | 없음 |
+| 단점 | 지도 위에 UI가 떠 있어 아트 훼손 느낌 | 좁은 폭(≤360px)에서 닉네임 말줄임 | 내 정보가 한눈에 안 보임 |
+
+측정(Playwright, 지도 `#fit` 크기): 393×636 → 393×482, 390×844 → 390×478. 세 안 모두 운영과 동일(손실 0).
+**추천: B.** 정보량이 가장 많고 지도를 전혀 가리지 않는다. 로고 헤더의 별 장식 대체가 부담이면 C로 후퇴(별 유지).
+알림 벨은 HUD에서 제거하고 MORE 탭의 빨간 점으로 대체(터치 요소 최소화).
